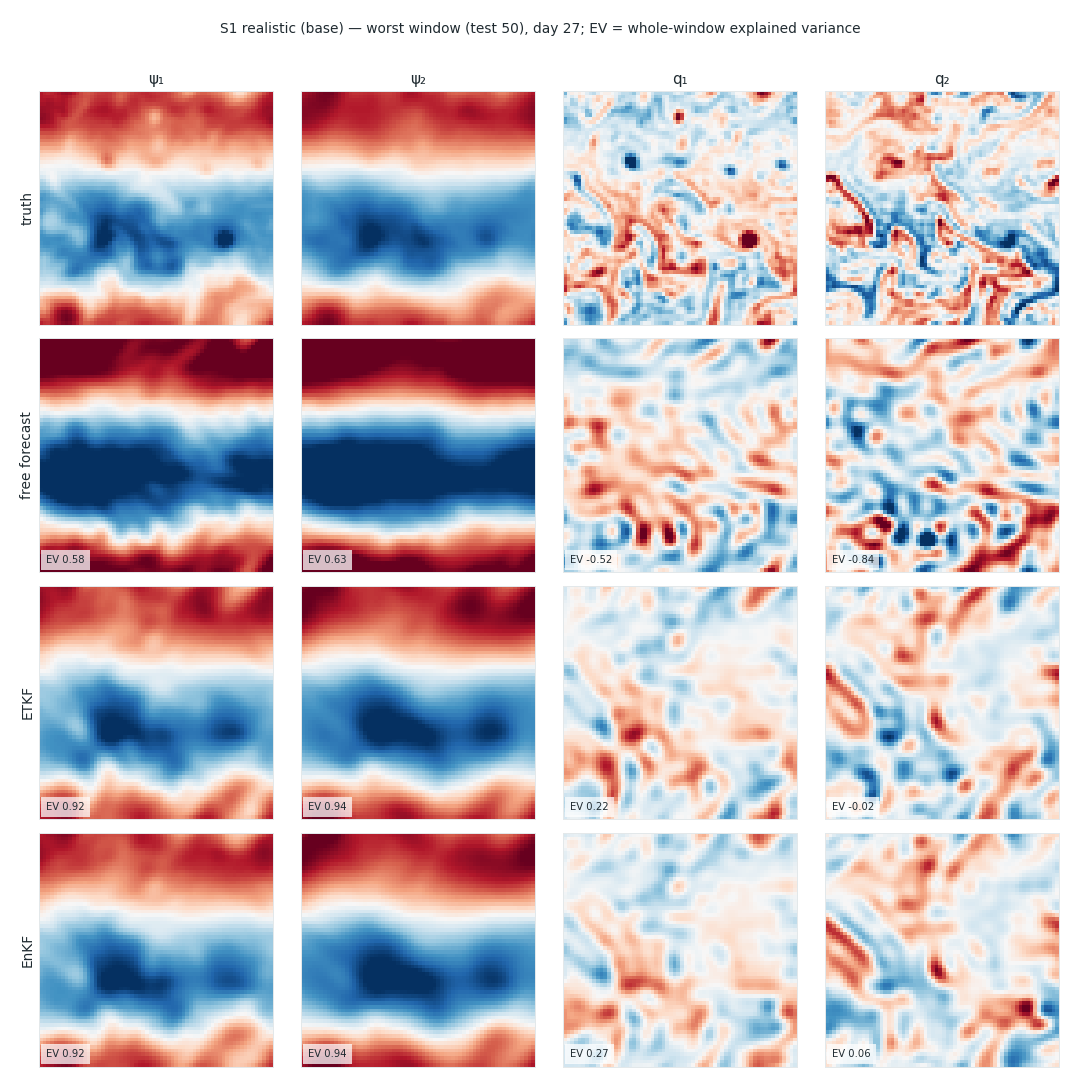
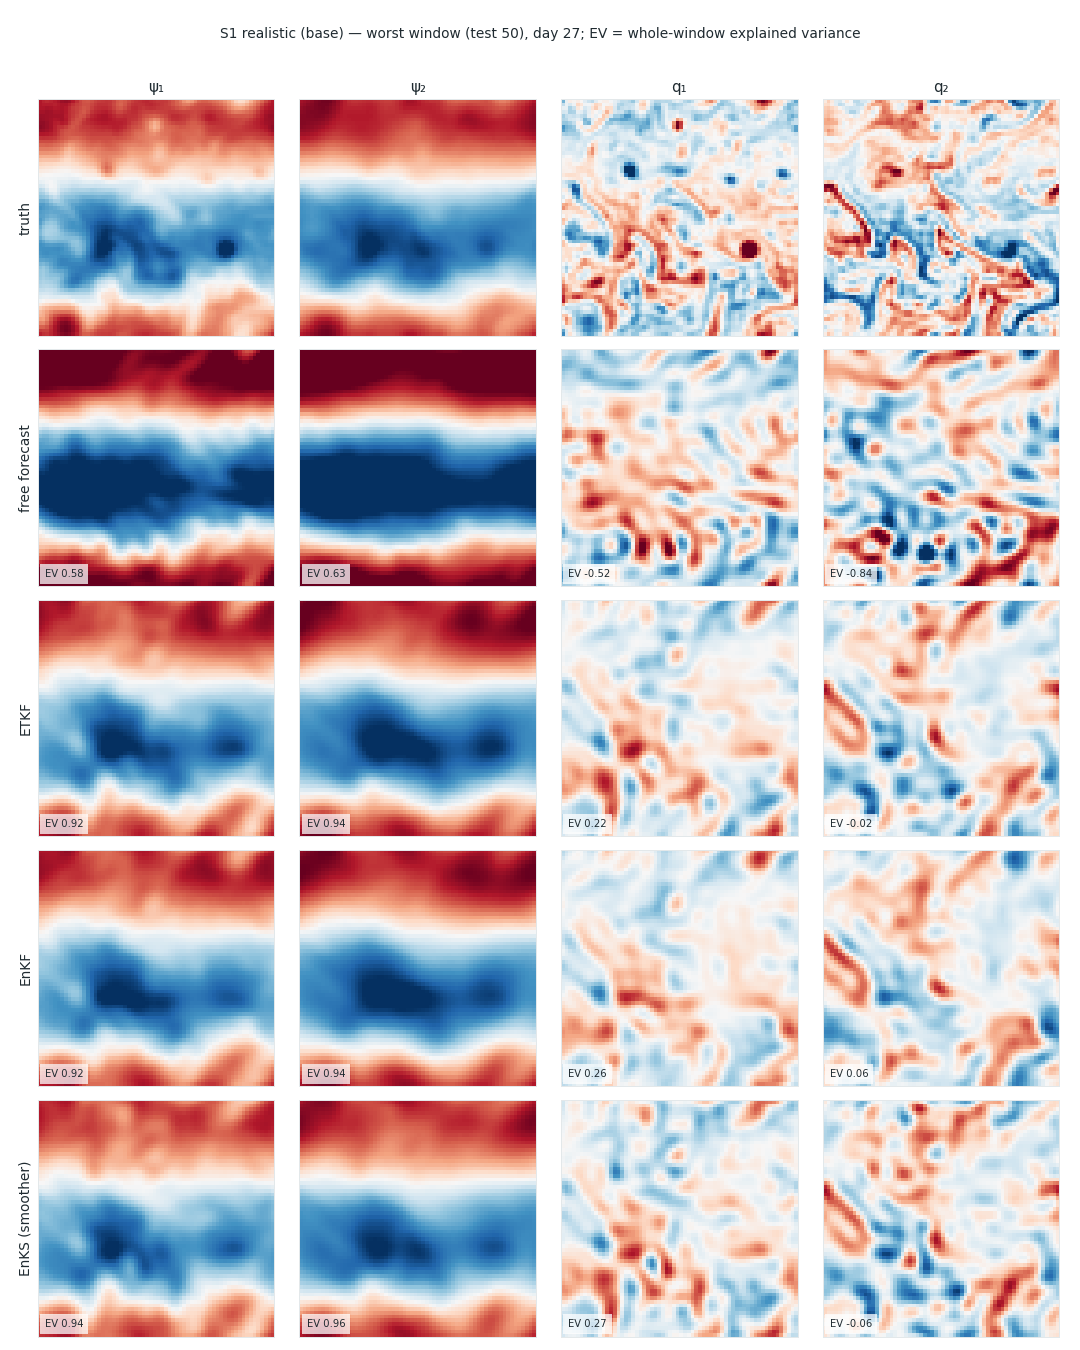
feat(qg): localized EnKS rows (lag 12) on the gyrostat benchmark; report, figures, results note
Test (100 windows): S0 0.804/0.813 vs ETKF 0.774/0.779; S1 0.602/0.610 vs ETKF
0.579/0.586 and EnKF 0.596/0.604.

diff --git a/reports/qg/generate_qg_specwind_da_figs.py b/reports/qg/generate_qg_specwind_da_figs.py
@@ -4,7 +4,7 @@ In the style of `generate_qg_reconstruction_figs.py` (the legacy QG DA report):
 
 * reconstruction panels for 3 test windows of the forced dataset (best / median
   / worst by the ETKF's S0 per-window score) in S0 and in the realistic S1
-  (base): rows truth | free forecast | ETKF | EnKF, columns psi1 | psi2 | q1 | q2
+  (base): rows truth | free forecast | ETKF | EnKF | EnKS, columns psi1 | psi2 | q1 | q2
   at day 27;
 * a DA-cycle animation (ETKF) per window and scenario: observed column, true
   and DA wind-stress curl, truth / analysis for q1, psi1, psi2, q2;
@@ -52,7 +52,9 @@ from models.qg_wind_modes import FourierWindBasis  # noqa: E402
 SPEC = "qg_specwind_gyrostat_v1"
 S1_VARIANT = "base"
 METHODS = (("ETKF", "etkf", {"loc_radius": 8.0, "etkf_ridge": 0.1, "etkf_loc_mode": "ensrf"}),
-           ("EnKF", "enkf", {"loc_radius": 6.0, "etkf_ridge": 0.1}))
+           ("EnKF", "enkf", {"loc_radius": 6.0, "etkf_ridge": 0.1}),
+           ("EnKS (smoother)", "enks", {"loc_radius": 8.0, "etkf_ridge": 0.1, "etkf_loc_mode": "ensrf",
+                                        "enks_lag": 12}))
 LABEL = {"psi1": "ψ₁", "psi2": "ψ₂", "q1": "q₁", "q2": "q₂"}
 CMAP = "RdBu_r"
 INK, MUTED, GRID = "#1f2a30", "#5b6b72", "#e3e8ea"
@@ -243,7 +245,7 @@ def density_figure(runs: list[dict], out_dir: str) -> str:
 
 
 def s0_s1_figure(runs: list[dict], out_dir: str) -> str:
-    fig, axes = plt.subplots(1, 2, figsize=(11, 3.9), sharey=True)
+    fig, axes = plt.subplots(1, len(METHODS), figsize=(5.5 * len(METHODS), 3.9), sharey=True)
     x = np.arange(len(FIELDS))
     for ax, (name, method, _) in zip(axes, METHODS):
         s0 = _find(runs, SPEC, method, 3)

diff --git a/evaluation/run_qg_specwind_da.py b/evaluation/run_qg_specwind_da.py
@@ -184,8 +184,9 @@ def main() -> None:
     p.add_argument("--init-ensemble", default="bred", choices=("white", "bred"))
     p.add_argument("--breed-days", type=float, default=3.0)
     p.add_argument("--disp-frac", type=float, default=1.0)
-    p.add_argument("--enks-lag", type=int, default=None,
-                   help="EnKS lag in analyses (default: the whole window)")
+    p.add_argument("--enks-lag", type=int, default=12,
+                   help="EnKS lag in analyses (val-tuned default 12 = 4 days at 3 columns per day; "
+                        "0 = the whole window)")
     p.add_argument("--etkf-loc-mode", default="ensrf", choices=("square_root", "ensrf"),
                    help="localized ETKF update: legacy square_root, or the exact EnSRF (ensrf)")
     p.add_argument("--s1-kappa", type=float, default=0.0,
@@ -232,7 +233,7 @@ def main() -> None:
         loc_cross_layer=args.loc_cross_layer, init_ensemble=args.init_ensemble,
         breed_days=args.breed_days, disp_frac=args.disp_frac, init_lag_days=args.init_lag_days,
         out_path=args.out, save_traj=args.save_traj, etkf_loc_mode=args.etkf_loc_mode,
-        enks_lag=args.enks_lag)
+        enks_lag=args.enks_lag or None)
     meta = {"spec": spec.name, "split": args.split, "indices": idx, "method": args.method,
             "cols_per_day": args.cols_per_day, "obs_noise_frac": args.obs_noise_frac,
             "init_lag_days": args.init_lag_days, "N": args.N, "inflation": args.inflation,

diff --git a/docs/results/qg_specwind_enks.md b/docs/results/qg_specwind_enks.md
@@ -1,0 +1,122 @@
+# Localized EnKS on the QG gyrostat benchmark (smoother vs filter)
+
+**Status:** RESULTS (2026-09-29). A localized ensemble Kalman smoother (EnKS)
+on the benchmark ETKF, the counterpart for the localized QG setting of the
+L96 ETKS (`docs/results/l96_etks_benchmark.md`). The L96 ETKS works in
+ensemble space on the unlocalized ETKF, so it does not apply here.
+
+**Numbers:** `reports/qg/outputs/qg_specwind_da_report.md` (test rows) and
+`evaluation/qg_specwind_etkf_check.py` (lag selection):
+- lag selection: `evaluation/qg_specwind_etkf_check.py` (`--summarize`, tasks
+  16–25) over `experiments/qg_specwind_etkf_check/`, SLURM 56925, 20 val
+  windows of the forced dataset;
+- test rows: `reports/qg/outputs/qg_specwind_da_report.md`, from
+  `experiments/qg_specwind_da/` (`METHOD=enks`, SLURM 56975–56978, rtx8000
+  and l40s).
+
+## Method
+
+`evaluation.baselines.EnKS`: the localized ETKF with the exact EnSRF update
+(`loc_mode="ensrf"`, radius 8, ridge 0.1, cross-layer weight 1, bred init,
+N = 80, inflation 1) runs unchanged. Each analysis records its forecast obs
+anomalies HA, S⁻¹dy and the modified-gain factor
+M = S^(−1/2)(S^(1/2) + R^(1/2))⁻¹ (`_ensrf_localized_analysis(record=...)`).
+`_enks_smooth_localized` then applies the analyses in time order. Analysis k
+updates the stored states s in [t_{k−lag}, t_k), using the cross-covariance
+C = L ∘ (A_sᵀ HA_k)/(N − 1), where L is that analysis's localization between
+the state points and its observations:
+- mean += C S⁻¹dy;
+- anomalies −= HA_k (C M)ᵀ.
+
+**Exactness:** without localization, with N − 1 ≥ D and a linear model, this
+is the exact RTS smoother of the filter. `tests/test_enks_localized.py`
+checks mean and covariance against a closed-form RTS.
+
+The lag is counted in analyses. At 3 columns per day, 12 analyses = 4 days.
+Inflation must be 1 and there must be no additive noise: both hold for the
+QG benchmark.
+
+## Lag selection (val, 20 windows)
+
+| | S0 score | S0 ψ₁ / q₁ | S1 score | S1 ψ₁ / ψ₂ / q₁ | S1 spread/RMSE q₁ |
+|---|---|---|---|---|---|
+| ETKF (filter) | 0.764 | 0.939 / 0.615 | 0.580 | 0.862 / 0.838 / 0.389 | 0.68 |
+| EnKF (filter) | 0.753 | 0.932 / 0.605 | 0.593 | 0.858 / 0.828 / 0.407 | 0.69 |
+| EnKS, lag 3 (1 day) | 0.777 | 0.948 / 0.644 | 0.596 | 0.877 / 0.852 / 0.416 | 0.66 |
+| EnKS, lag 6 (2 days) | 0.786 | 0.955 / 0.666 | *0.605* | 0.885 / 0.853 / 0.439 | 0.65 |
+| **EnKS, lag 12 (4 days)** | *0.798* | 0.963 / 0.692 | **0.608** | 0.888 / 0.832 / 0.466 | 0.63 |
+| EnKS, lag 24 (8 days) | **0.802** | 0.968 / 0.707 | 0.588 | 0.872 / 0.760 / 0.482 | 0.60 |
+| EnKS, whole window | 0.791 | 0.966 / 0.700 | 0.550 | 0.850 / 0.681 / 0.472 | 0.56 |
+
+Paired differences for lag 12 (score, bootstrap 95%):
+
+| | S0 | S1 |
+|---|---|---|
+| − ETKF | +0.034 [+0.029, +0.038] | +0.028 [+0.020, +0.036] |
+| − EnKF | +0.044 [+0.038, +0.051] | +0.015 [+0.005, +0.025] |
+| − lag 24 | −0.004 [−0.007, −0.002] | +0.020 [+0.007, +0.037] |
+| − lag 6 | +0.011 [+0.010, +0.013] | +0.003 [−0.003, +0.008] |
+
+**Selected: lag 12.**
+
+## Findings (val)
+
+1. **The smoother helps in both scenarios.** At lag 12: +0.034 over the
+   ETKF in S0 and +0.028 in S1. It is also the best estimate under S1,
+   ahead of the EnKF (+0.015).
+2. **Model error shortens the useful lag.**
+   - In S0 the gain grows up to lag 24 (8 days) and falls slightly for the
+     whole window.
+   - In S1 the gain peaks at 6–12 analyses. Beyond that it turns negative:
+     over the whole window the EnKS is **below the filter** (0.550), and the
+     lower layer collapses (ψ₂ 0.68).
+   - With a wrong model, later observations stop being informative about
+     earlier states, and the sampled cross-covariances turn into noise. The
+     L96 ETKS showed the same pattern: a smaller gain on S1, and an effective
+     lag of 1–2 analyses there.
+3. **The gain is mostly in PV**: S0 q₁ 0.615 → 0.692 at lag 12, ψ₁ 0.939 →
+   0.963. Smoothing constrains the small scales that one day of columns
+   cannot.
+4. **The smoother is more under-dispersed than the filter**, and more so at
+   longer lags: S1 spread/RMSE q₁ goes 0.68 → 0.63 at lag 12 and 0.56 over the
+   whole window. The L96 ETKS showed the same, as expected when a smoother
+   treats the forecast as exact between analyses. Probabilistic scores (CRPS)
+   gain less than RMSE-type ones.
+
+## Test (100 windows, lag 12)
+
+| | S0 forced | S0 coupled | S1 forced | S1 coupled |
+|---|---|---|---|---|
+| ETKF (filter) | *0.774* | *0.779* | 0.579 | 0.586 |
+| EnKF (filter) | 0.761 | 0.768 | *0.596* | *0.604* |
+| **EnKS (lag 12)** | **0.804** | **0.813** | **0.602** | **0.610** |
+
+Paired differences (bootstrap 95%), forced / coupled:
+
+| | S0 | S1 |
+|---|---|---|
+| EnKS − ETKF, score | +0.030 [+0.027, +0.033] / +0.034 [+0.031, +0.037] | +0.023 [+0.015, +0.030] / +0.024 [+0.016, +0.030] |
+| EnKS − EnKF, score | +0.043 [+0.039, +0.047] / +0.045 [+0.040, +0.049] | +0.005 [−0.005, +0.014] / +0.006 [−0.004, +0.015] |
+| EnKS − ETKF, q₁ EV | +0.070 [+0.066, +0.074] / +0.075 [+0.071, +0.080] | +0.071 [+0.065, +0.076] / +0.075 [+0.070, +0.080] |
+| EnKS − ETKF, ψ₂ EV | +0.015 [+0.013, +0.018] / +0.018 [+0.015, +0.021] | −0.016 [−0.040, +0.005] / −0.020 [−0.045, −0.000] |
+
+- **Test confirms val.** The smoother gains about +0.03 over the filter in
+  S0 and about +0.02 in S1, mostly in upper-layer PV (+0.07 in q₁).
+- **In S1 it ties the EnKF on the score**, with better ψ₁ and q₁ (0.872 /
+  0.504 against 0.847 / 0.450) and slightly lower ψ₂ and q₂.
+- **In S1 the unobserved ψ₂ loses a little** against the filter (−0.016 /
+  −0.020, significant for coupled). This is the long-lag failure mode of
+  finding 2, in milder form.
+- **Spread/RMSE in q₁ (median)** falls from 0.72 to 0.68 in S0 and from 0.70
+  to 0.64 in S1: the smoother is more under-dispersed than the filter.
+
+## Caveats
+
+- **The EnKS is a smoother.** It uses observations after each time, so it is
+  a reanalysis-type estimate. It is reported next to the filters, not
+  instead of them.
+- **Same localization as the analysis.** Each analysis's state–observation
+  localization is reused for the earlier states, as is standard for a
+  localized EnKS. A time-dependent localization, tapering with lag, could
+  make longer lags safe under model error.
+- **Lag tuned on 20 val windows at one density.**

diff --git a/reports/qg/outputs/qg_specwind_da_report.md b/reports/qg/outputs/qg_specwind_da_report.md
@@ -23,18 +23,20 @@ The gyrostat drives domain-scale wind-stress-curl patterns with regime changes; 
 | method | ψ₁ | ψ₂ | q₁ | q₂ | score | score 95% CI |
 |---|---|---|---|---|---|---|
 | _free forecast_ | 0.759 | 0.848 | -0.057 | 0.043 | 0.398 |  |
-| ETKF (radius 8) | **0.937** | **0.933** | **0.647** | **0.578** | **0.774** | [0.762, 0.786] |
-| EnKF (radius 6) | *0.929* | *0.918* | *0.635* | *0.562* | *0.761* | [0.749, 0.773] |
+| ETKF (radius 8) | *0.937* | *0.933* | *0.647* | *0.578* | *0.774* | [0.762, 0.786] |
+| EnKF (radius 6) | 0.929 | 0.918 | 0.635 | 0.562 | 0.761 | [0.749, 0.773] |
+| EnKS (ETKF smoother) (radius 8, lag 12) | **0.961** | **0.948** | **0.717** | **0.588** | **0.804** | [0.793, 0.815] |
 
 **Coupled dataset**
 
 | method | ψ₁ | ψ₂ | q₁ | q₂ | score | score 95% CI |
 |---|---|---|---|---|---|---|
 | _free forecast_ | 0.745 | 0.838 | -0.044 | 0.068 | 0.402 |  |
-| ETKF (radius 8) | **0.936** | **0.933** | **0.651** | **0.595** | **0.779** | [0.767, 0.791] |
-| EnKF (radius 6) | *0.929* | *0.919* | *0.643* | *0.580* | *0.768* | [0.755, 0.780] |
+| ETKF (radius 8) | *0.936* | *0.933* | *0.651* | *0.595* | *0.779* | [0.767, 0.791] |
+| EnKF (radius 6) | 0.929 | 0.919 | 0.643 | 0.580 | 0.768 | [0.755, 0.780] |
+| EnKS (ETKF smoother) (radius 8, lag 12) | **0.962** | **0.951** | **0.726** | **0.611** | **0.813** | [0.802, 0.823] |
 
-(Best per column **bolded**, second-best *italicized*, among the DA methods; the free forecast is a reference row.)
+(Best per column **bolded**, second-best *italicized*, among the DA methods; the free forecast is a reference row. The EnKS is the localized ensemble Kalman smoother on the ETKF: it also uses observations after each time, so it is a reanalysis-type estimate, not a filter.)
 
 ## 3. DA baselines — S1 (realistic base), 3 columns per day
 
@@ -43,18 +45,20 @@ The gyrostat drives domain-scale wind-stress-curl patterns with regime changes; 
 | method | ψ₁ | ψ₂ | q₁ | q₂ | score | score 95% CI |
 |---|---|---|---|---|---|---|
 | _free forecast_ | 0.127 | -0.934 | -0.254 | -0.363 | -0.356 |  |
-| ETKF (radius 8) | **0.848** | *0.757* | *0.433* | *0.277* | *0.579* | [0.560, 0.598] |
-| EnKF (radius 6) | *0.847* | **0.762** | **0.450** | **0.326** | **0.596** | [0.578, 0.615] |
+| ETKF (radius 8) | *0.848* | *0.757* | 0.433 | 0.277 | 0.579 | [0.560, 0.598] |
+| EnKF (radius 6) | 0.847 | **0.762** | *0.450* | **0.326** | *0.596* | [0.578, 0.615] |
+| EnKS (ETKF smoother) (radius 8, lag 12) | **0.872** | 0.741 | **0.504** | *0.290* | **0.602** | [0.581, 0.621] |
 
 **Coupled dataset**
 
 | method | ψ₁ | ψ₂ | q₁ | q₂ | score | score 95% CI |
 |---|---|---|---|---|---|---|
 | _free forecast_ | 0.113 | -0.914 | -0.260 | -0.352 | -0.353 |  |
-| ETKF (radius 8) | **0.848** | *0.766* | *0.437* | *0.295* | *0.586* | [0.568, 0.605] |
-| EnKF (radius 6) | *0.847* | **0.771** | **0.454** | **0.343** | **0.604** | [0.586, 0.622] |
+| ETKF (radius 8) | *0.848* | *0.766* | 0.437 | 0.295 | 0.586 | [0.568, 0.605] |
+| EnKF (radius 6) | 0.847 | **0.771** | *0.454* | **0.343** | *0.604* | [0.586, 0.622] |
+| EnKS (ETKF smoother) (radius 8, lag 12) | **0.872** | 0.746 | **0.512** | *0.311* | **0.610** | [0.590, 0.630] |
 
-(Best per column **bolded**, second-best *italicized*, among the DA methods; the free forecast is a reference row.)
+(Best per column **bolded**, second-best *italicized*, among the DA methods; the free forecast is a reference row. The EnKS is the localized ensemble Kalman smoother on the ETKF: it also uses observations after each time, so it is a reanalysis-type estimate, not a filter.)
 
 ![S0 vs S1 per field](figs/qg_specwind_da_s0_s1.png)
 
@@ -127,6 +131,11 @@ Independent samples (paired windows share seeds but not trajectories), two-sampl
 | EnKF | q₁ | 0.635 | 0.643 | -0.009 [-0.039, +0.023] |
 | EnKF | q₂ | 0.562 | 0.580 | -0.019 [-0.060, +0.022] |
 | EnKF | score | 0.761 | 0.768 | -0.007 [-0.025, +0.010] |
+| EnKS (ETKF smoother) | ψ₁ | 0.961 | 0.962 | -0.001 [-0.008, +0.007] |
+| EnKS (ETKF smoother) | ψ₂ | 0.948 | 0.951 | -0.003 [-0.018, +0.012] |
+| EnKS (ETKF smoother) | q₁ | 0.717 | 0.726 | -0.010 [-0.035, +0.016] |
+| EnKS (ETKF smoother) | q₂ | 0.588 | 0.611 | -0.022 [-0.064, +0.018] |
+| EnKS (ETKF smoother) | score | 0.804 | 0.813 | -0.009 [-0.024, +0.006] |
 
 **S1 (realistic base)**
 
@@ -142,6 +151,11 @@ Independent samples (paired windows share seeds but not trajectories), two-sampl
 | EnKF | q₁ | 0.450 | 0.454 | -0.004 [-0.030, +0.023] |
 | EnKF | q₂ | 0.326 | 0.343 | -0.017 [-0.052, +0.017] |
 | EnKF | score | 0.596 | 0.604 | -0.007 [-0.033, +0.018] |
+| EnKS (ETKF smoother) | ψ₁ | 0.872 | 0.872 | -0.000 [-0.025, +0.024] |
+| EnKS (ETKF smoother) | ψ₂ | 0.741 | 0.746 | -0.005 [-0.105, +0.096] |
+| EnKS (ETKF smoother) | q₁ | 0.504 | 0.512 | -0.008 [-0.036, +0.020] |
+| EnKS (ETKF smoother) | q₂ | 0.290 | 0.311 | -0.021 [-0.059, +0.016] |
+| EnKS (ETKF smoother) | score | 0.602 | 0.610 | -0.009 [-0.037, +0.020] |
 
 ## 7. Factor strata (forced, ETKF, 3 columns per day)
 

diff --git a/reports/README.md b/reports/README.md
@@ -70,7 +70,7 @@ fails if a note cites an output that is not listed here against it.
 | `reports/l96/outputs/l96_da_obs_count_dafw.md` | `docs/results/l96_benchmark_default_paper_audit.md` |
 | `reports/l96/outputs/rank_histograms/` | `docs/results/l96_rank_histograms_c4.md` |
 | `reports/l96/outputs/da_inflation_sweep/` | `docs/results/l96_da_inflation_post291.md` |
-| `reports/qg/outputs/qg_specwind_da_report.md` | `docs/results/qg_specwind_da_s0_s1_test.md` |
+| `reports/qg/outputs/qg_specwind_da_report.md` | `docs/results/qg_specwind_da_s0_s1_test.md`, `docs/results/qg_specwind_enks.md` |
 | `reports/qg/outputs/qg_spectral_wind_report.md` | `docs/results/qg_spectral_wind_calibration.md` |
 
 ## Status vocabulary
@@ -158,7 +158,7 @@ EnSRF update (`loc_mode="ensrf"`).
 | `qg1l_report.md` | One-layer QG variant | **FROZEN** | old DA defaults | `reports/qg/generate_qg1l_report.py` |
 | `figure_qg_lag_loc_sweep_report.md` | Lag × localization sweep figure | **FROZEN** | old DA defaults | none in the repo |
 | `qg_spectral_wind_report.md` | First QG simulations under the Option B spectral wind drivers (storm, spectral OU, gyrostat, surrogate) | **CURRENT** — illustrative single realizations, no statistical claims | simulation only (no DA), nominal ocean, 2-year unforced spin-up + 120 days | `reports/qg/simulate_qg_spectral_wind.py` |
-| `qg_specwind_da_report.md` | QG gyrostat case study: ETKF/EnKF on the spectral-wind test sets (forced and coupled), S0 and realistic S1, in the layout of `qg_da_report.md` (per-scenario tables, configuration synthesis + S1 error budget, density, forced vs coupled, strata, best/median/worst reconstructions + DA-cycle GIFs) | **CURRENT** | val-tuned DA-2 settings (ETKF radius 8 / ridge 1, EnKF radius 6, cross-layer 1, bred init); S1 realistic base | `reports/qg/generate_qg_specwind_da_report.py`; figures `reports/qg/generate_qg_specwind_da_figs.py` |
+| `qg_specwind_da_report.md` | QG gyrostat case study: ETKF/EnKF on the spectral-wind test sets (forced and coupled), S0 and realistic S1, in the layout of `qg_da_report.md` (per-scenario tables with ETKF, EnKF and the localized EnKS smoother, configuration synthesis + S1 error budget, density, forced vs coupled, strata, best/median/worst reconstructions + DA-cycle GIFs) | **CURRENT** | val-tuned DA-2 settings (ETKF radius 8 / ridge 1, EnKF radius 6, cross-layer 1, bred init); S1 realistic base | `reports/qg/generate_qg_specwind_da_report.py`; figures `reports/qg/generate_qg_specwind_da_figs.py` |
 
 ## L63
 

diff --git a/CHANGELOG.d/2026-09-29-qg-localized-enks.md b/CHANGELOG.d/2026-09-29-qg-localized-enks.md
@@ -1,0 +1,43 @@
+## 2026-09-29: Localized EnKS (smoother) on the EnSRF ETKF; QG gyrostat smoother rows
+
+**Summary:** A localized ensemble Kalman smoother, the QG counterpart of the
+L96 ETKS, which needs the unlocalized ETKF. The localized EnSRF analysis
+records HA, S⁻¹dy, its modified-gain factor and its localization.
+`_enks_smooth_localized` applies each analysis to the earlier stored states
+within a lag, using the state–observation localization of that analysis.
+Without localization it is the exact RTS smoother.
+- **Lag:** tuned on val to 12 analyses (4 days): S0 +0.034, S1 +0.028 over
+  the filter. Longer lags hurt under model error (whole window below the
+  filter in S1).
+- **Test, 100 windows:**
+  - S0: 0.804 / 0.813 (forced / coupled), against 0.774 / 0.779 for the
+    ETKF;
+  - S1: 0.602 / 0.610, against ETKF 0.579 / 0.586 and EnKF 0.596 / 0.604;
+  - the gain is mostly in q₁ (+0.07).
+
+**Files modified:**
+- `evaluation/baselines.py`: `record` in `_ensrf_localized_analysis`;
+  `_enks_smooth_localized`; the `EnKS` class.
+- `evaluation/run_qg_baselines.py`: `method_name="enks"`, `enks_lag`; the
+  column localization is now built for `enks` too.
+- `evaluation/run_qg_specwind_da.py`: `--method enks`, `--enks-lag`
+  (default 12).
+- `batch/run_qg_specwind_da.sbatch`: `ENKSLAG`.
+- `evaluation/qg_specwind_etkf_check.py`: lag tasks 16–25.
+- `reports/qg/generate_qg_specwind_da_report.py`: EnKS rows.
+- `reports/qg/generate_qg_specwind_da_figs.py`: EnKS reconstruction row;
+  the S0/S1 figure has one panel per method.
+- regenerated report and figures.
+- `tests/test_enks_localized.py` (3 tests, including an exact RTS check) and
+  an end-to-end test in `tests/test_qg_specwind_da.py`.
+- `docs/results/qg_specwind_enks.md` (new);
+  `docs/results/qg_specwind_da_s0_s1_test.md` §3b; `reports/README.md`.
+
+**Rationale:** The user asked for a localized EnKS for QG after the review of
+the L96 ETKS. Ocean reanalyses are smoothers, so this row is the
+reanalysis-type estimate for the case study.
+
+**Verification:**
+- SLURM 56925 (val lag sweep) and 56975–56978 (test): all completed.
+- `pytest -m "not slow"` on the EnKS, EnSRF, specwind DA and S1 tests and
+  the docs/report tests; `ruff check` on the touched files.

diff --git a/docs/results/qg_specwind_da_s0_s1_test.md b/docs/results/qg_specwind_da_s0_s1_test.md
@@ -126,6 +126,12 @@ Run with the **old** ETKF update (not re-run):
 This is the variant that met the first target (q₁ ∈ [0, 0.25] with the old
 ETKF).
 
+## 3b. Smoother (localized EnKS)
+
+The localized EnKS on this ETKF (lag 12 analyses = 4 days) gains about +0.03
+over the filter in S0 (0.804 / 0.813) and about +0.02 in S1 (0.602 / 0.610).
+In S1 it ties the EnKF. Details: `docs/results/qg_specwind_enks.md`.
+
 ## 4. Caveats
 
 - **100 test windows per cell.** D3 strata have 21–79 windows each.
